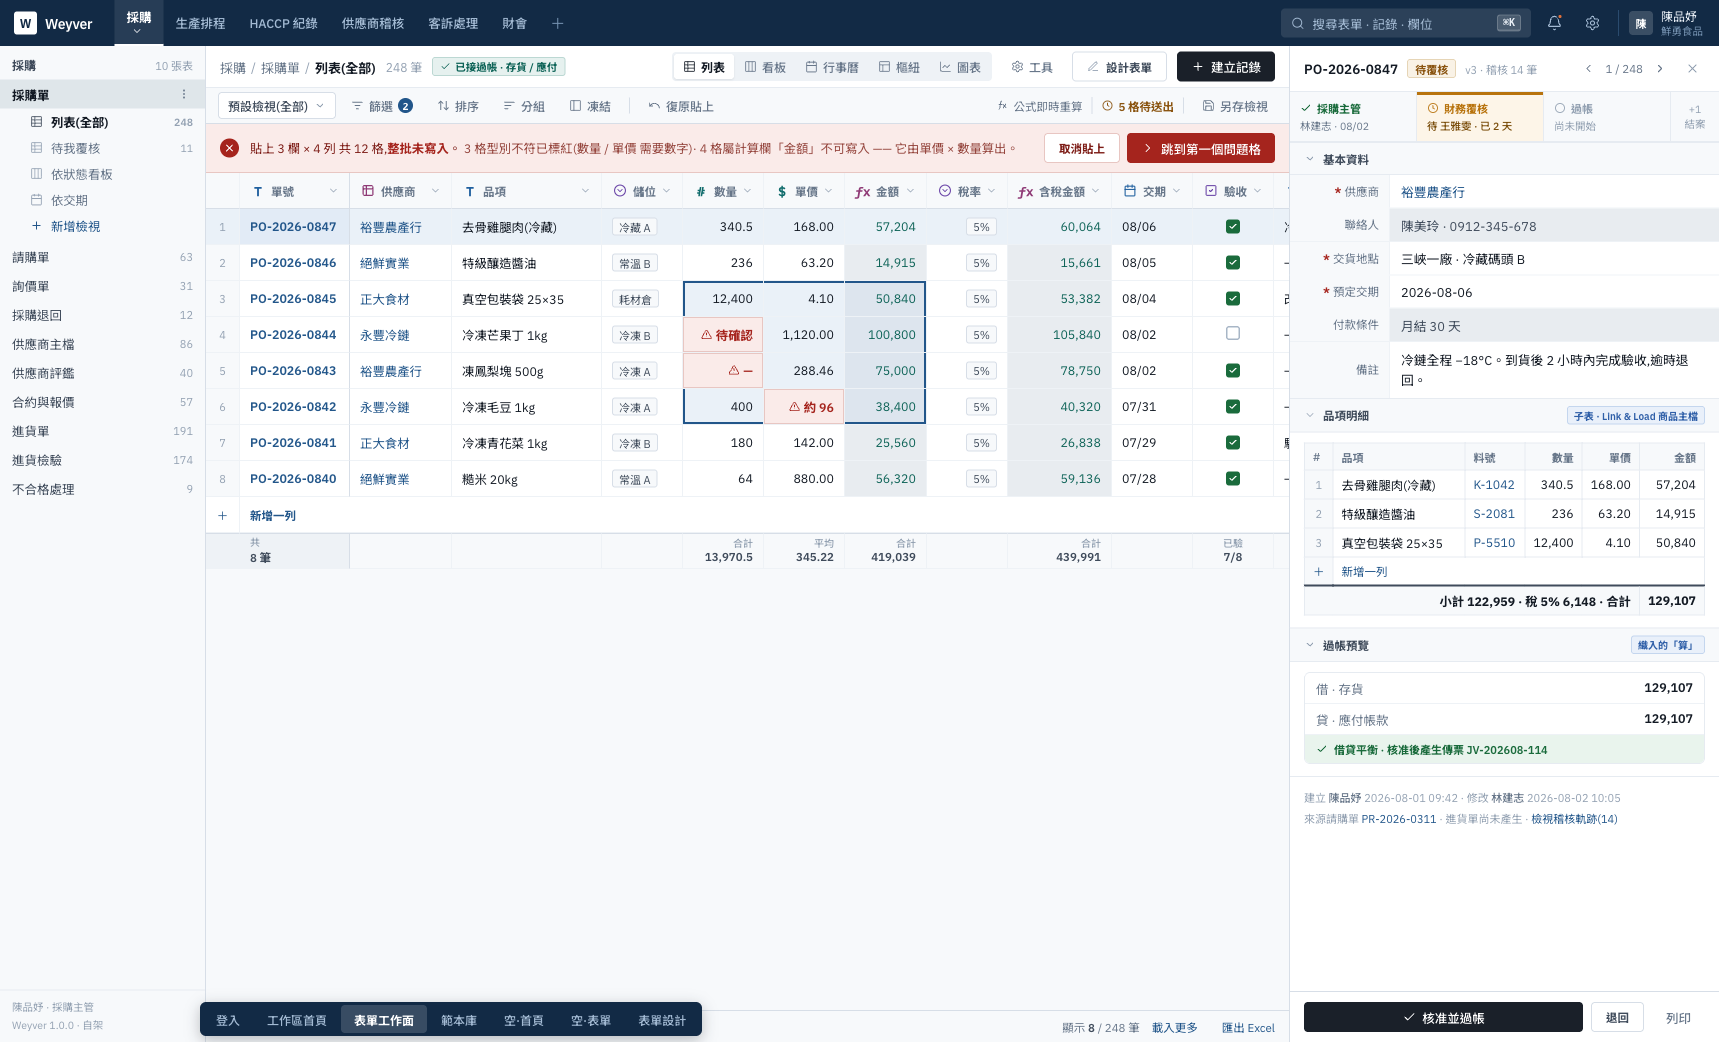
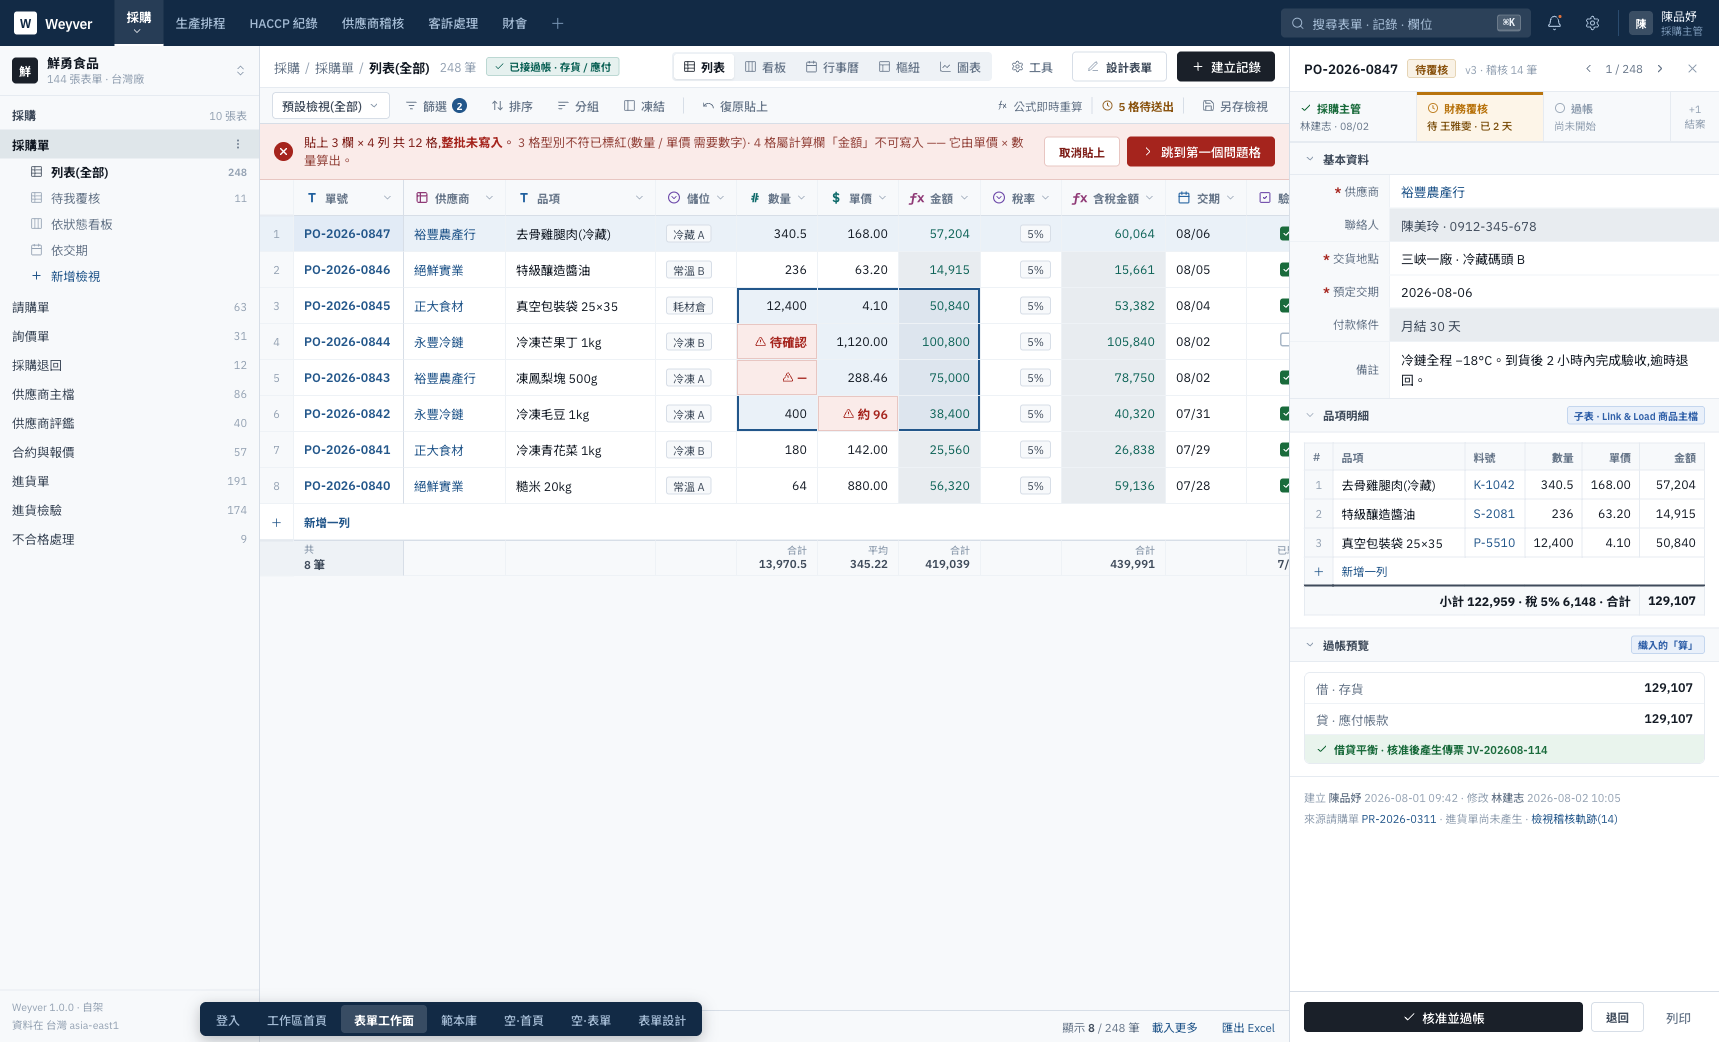
docs(design): 步驟 4|側欄 260px + 租戶切換器(G6 + G5);E 案裁定維持
**§3 衝突裁定:維持 E 案**(決策方 2026-08-08)。
型別分組色保留 —— 這是我方對 DESIGN-RULES.md 的**明確偏離**,記下以免日後被當成疏漏。

🔴 **但有件事與這個裁定獨立**:option-tone 在 **prod 已經在用**
(object-page.tsx + record-list.tsx)—— 資料層顏色在 prod 是活的,
**是 mockup 落後於 prod**,不是「我們選了不做」。
mockup 的 .opt 目前中性灰是 **mockup 的缺口**,不是設計裁定的結果。
補上後會是「型別層 + 資料層」兩層(參考是「資料層 + 導覽層」兩層)——
兩層不是三層,不等於案 3。待另行處理。

**G6** 側欄 206 → 260px。§2.3 明列 260;§1 的理由是把 Ragic 四層導覽
(吃掉 118px 垂直 + 306px 水平)壓成單一側欄承載群組/樹/檢視 —— 206px 撐不住三層縮排。

**G5** 租戶切換器釘在側欄最上。§3.6「多租戶從第一天就有」。
🔴 它同時修掉一個既有混淆:原本頂欄 whoami 把**使用者與租戶擠在一起**
(陳品妤 / 鮮勇食品)—— 兩個不同的東西,切換對象也不同。
→ 側欄頂 = 租戶(可切換)· 頂欄右 = 使用者 · 側欄底 = 版本戳記。

⚠ 量測時我的檢查給了**偽陰性**:三個 .ctx 量到 [260,0,0] 判「非單一寬度」,
但那兩個 0 是隱藏畫面的(父層 hidden)。改用「.ctx{width: 規則數 = 1」才是對的判準。
又一次「代理指標的輸出不是答案」—— 差點把偽陰性報成缺陷。

diff --git a/docs/mockups/weyver-v2.html b/docs/mockups/weyver-v2.html
@@ -378,8 +378,28 @@ a:hover{text-decoration:underline;}
    顏色留給資料面的型別(網格表頭的分組色)。
    兩個地方都上色會讓「顏色代表什麼」失去單一答案 ——
    而 §3.3 記的 NocoDB 缺點正是「側欄選取灰 vs 藍」這種同一畫面兩套語言。 */
-.ctx{width:206px;flex-shrink:0;border-right:1px solid var(--line);background:var(--paper-2);
+/* 🔴 G6(docs/39 步驟 4)|側欄 **260px 單一寬度,不因畫面改變**。
+   `DESIGN-RULES.md` §2.3 明列 260px,§1 的理由是把 Ragic 疊的四層導覽
+   (頁籤列 → 群組選擇器 → 檢視清單 → 篩選樹,吃掉 118px 垂直 + 306px 水平)
+   壓成**單一側欄承載群組 / 樹 / 檢視**。206px 撐不住三層縮排。 */
+.ctx{width:260px;flex-shrink:0;border-right:1px solid var(--line);background:var(--paper-2);
   display:flex;flex-direction:column;}
+
+/* 🔴 G5|租戶切換器釘在側欄最上。
+   `DESIGN-RULES.md` §3.6:「頂:租戶切換器(**多租戶從第一天就有,Ragic 做對了**)」。
+   ⚠ 這同時修掉一個既有的混淆:原本頂欄的 `whoami` 把**使用者**與**租戶**擠在一起
+   (陳品妤 / 鮮勇食品)—— 那是兩個不同的東西,切換的對象也不同。
+   改成:側欄頂 = 租戶(可切換)· 頂欄右 = 使用者帳號 · 側欄底 = 版本戳記。 */
+.ctx .tenant{display:flex;align-items:center;gap:9px;padding:9px 12px;border-bottom:1px solid var(--line-2);
+  cursor:pointer;}
+.ctx .tenant:hover{background:var(--paper-3);}
+.ctx .tenant .sq{width:26px;height:26px;border-radius:var(--r-ctl);background:var(--action);color:#fff;
+  display:flex;align-items:center;justify-content:center;font-size:12px;font-weight:700;flex-shrink:0;}
+.ctx .tenant .tx{min-width:0;line-height:1.3;}
+.ctx .tenant .tx b{display:block;font-size:13px;font-weight:600;color:var(--ink);
+  white-space:nowrap;overflow:hidden;text-overflow:ellipsis;}
+.ctx .tenant .tx em{display:block;font-style:normal;font-size:11px;color:var(--ink-4);}
+.ctx .tenant svg{width:13px;height:13px;color:var(--ink-4);margin-left:auto;flex-shrink:0;}
 .ctx .hd{display:flex;align-items:center;gap:6px;padding:10px 12px 6px;font-size:12px;
   font-weight:600;color:var(--ink-2);}
 .ctx .hd .n{margin-left:auto;font-size:11px;font-weight:400;color:var(--ink-4);}
@@ -1186,7 +1206,7 @@ a:hover{text-decoration:underline;}
       <button class="gsearch"><svg viewBox="0 0 24 24"><circle cx="11" cy="11" r="8"/><path d="m21 21-4.3-4.3"/></svg>搜尋表單 · 記錄 · 欄位<kbd>⌘K</kbd></button>
       <button class="tico"><svg viewBox="0 0 24 24"><path d="M10.3 21a2 2 0 0 0 3.4 0"/><path d="M3.3 15.3A1 1 0 0 0 4 17h16a1 1 0 0 0 .7-1.7C19.4 14 18 12.5 18 8A6 6 0 0 0 6 8c0 4.5-1.4 6-2.7 7.3"/></svg><span class="dot"></span></button>
       <button class="tico"><svg viewBox="0 0 24 24"><path d="M12.2 2h-.4a2 2 0 0 0-2 2v.2a2 2 0 0 1-1 1.7l-.4.2a2 2 0 0 1-2 0l-.1-.1a2 2 0 0 0-2.7.7l-.3.5a2 2 0 0 0 .7 2.8l.2.1a2 2 0 0 1 1 1.7v.4a2 2 0 0 1-1 1.7l-.2.1a2 2 0 0 0-.7 2.8l.3.5a2 2 0 0 0 2.7.7l.2-.1a2 2 0 0 1 2 0l.3.2a2 2 0 0 1 1 1.7v.2a2 2 0 0 0 2 2h.4a2 2 0 0 0 2-2v-.2a2 2 0 0 1 1-1.7l.4-.2a2 2 0 0 1 2 0l.1.1a2 2 0 0 0 2.7-.7l.3-.5a2 2 0 0 0-.7-2.8l-.2-.1a2 2 0 0 1-1-1.7v-.4a2 2 0 0 1 1-1.7l.2-.1a2 2 0 0 0 .7-2.8l-.3-.5a2 2 0 0 0-2.7-.7l-.2.1a2 2 0 0 1-2 0l-.3-.2a2 2 0 0 1-1-1.7V4a2 2 0 0 0-2-2Z"/><circle cx="12" cy="12" r="3"/></svg></button>
-      <div class="whoami"><div class="av">陳</div><div class="tx">陳品妤<em>鮮勇食品</em></div></div>
+      <div class="whoami"><div class="av">陳</div><div class="tx">陳品妤<em>採購主管</em></div></div>
     </div>
   </div>
   <div class="mainrow">
@@ -1321,11 +1341,17 @@ a:hover{text-decoration:underline;}
       <button class="gsearch"><svg viewBox="0 0 24 24"><circle cx="11" cy="11" r="8"/><path d="m21 21-4.3-4.3"/></svg>搜尋表單 · 記錄 · 欄位<kbd>⌘K</kbd></button>
       <button class="tico"><svg viewBox="0 0 24 24"><path d="M10.3 21a2 2 0 0 0 3.4 0"/><path d="M3.3 15.3A1 1 0 0 0 4 17h16a1 1 0 0 0 .7-1.7C19.4 14 18 12.5 18 8A6 6 0 0 0 6 8c0 4.5-1.4 6-2.7 7.3"/></svg><span class="dot"></span></button>
       <button class="tico"><svg viewBox="0 0 24 24"><path d="M12.2 2h-.4a2 2 0 0 0-2 2v.2a2 2 0 0 1-1 1.7l-.4.2a2 2 0 0 1-2 0l-.1-.1a2 2 0 0 0-2.7.7l-.3.5a2 2 0 0 0 .7 2.8l.2.1a2 2 0 0 1 1 1.7v.4a2 2 0 0 1-1 1.7l-.2.1a2 2 0 0 0-.7 2.8l.3.5a2 2 0 0 0 2.7.7l.2-.1a2 2 0 0 1 2 0l.3.2a2 2 0 0 1 1 1.7v.2a2 2 0 0 0 2 2h.4a2 2 0 0 0 2-2v-.2a2 2 0 0 1 1-1.7l.4-.2a2 2 0 0 1 2 0l.1.1a2 2 0 0 0 2.7-.7l.3-.5a2 2 0 0 0-.7-2.8l-.2-.1a2 2 0 0 1-1-1.7v-.4a2 2 0 0 1 1-1.7l.2-.1a2 2 0 0 0 .7-2.8l-.3-.5a2 2 0 0 0-2.7-.7l-.2.1a2 2 0 0 1-2 0l-.3-.2a2 2 0 0 1-1-1.7V4a2 2 0 0 0-2-2Z"/><circle cx="12" cy="12" r="3"/></svg></button>
-      <div class="whoami"><div class="av">陳</div><div class="tx">陳品妤<em>鮮勇食品</em></div></div>
+      <div class="whoami"><div class="av">陳</div><div class="tx">陳品妤<em>採購主管</em></div></div>
     </div>
   </div>
   <div class="mainrow">
       <div class="ctx">
+        <!-- G5:租戶切換器。多租戶從第一天就在場,不是設定頁裡的東西。 -->
+        <div class="tenant">
+          <div class="sq">鮮</div>
+          <div class="tx"><b>鮮勇食品</b><em>144 張表單 · 台灣廠</em></div>
+          <svg viewBox="0 0 24 24" fill="none" stroke="currentColor" stroke-width="2" stroke-linecap="round" stroke-linejoin="round"><path d="m7 15 5 5 5-5M7 9l5-5 5 5"/></svg>
+        </div>
         <div class="hd">採購<span class="n">10 張表</span></div>
         <div class="list">
           <div class="it on">採購單<span class="cv"><button title="更多"><svg viewBox="0 0 24 24" fill="none" stroke="currentColor" stroke-width="2" stroke-linecap="round" stroke-linejoin="round"><circle cx="12" cy="5" r="1"/><circle cx="12" cy="12" r="1"/><circle cx="12" cy="19" r="1"/></svg></button></span></div>
@@ -1349,7 +1375,7 @@ a:hover{text-decoration:underline;}
           <div class="it">進貨檢驗<span class="n">174</span></div>
           <div class="it">不合格處理<span class="n">9</span></div>
         </div>
-        <div class="foot">陳品妤 · 採購主管<br>Weyver 1.0.0 · 自架</div>
+        <div class="foot">Weyver 1.0.0 · 自架<br>資料在 台灣 asia-east1</div>
       </div>
     <div class="mid">
       <div class="fw">
@@ -1670,7 +1696,7 @@ a:hover{text-decoration:underline;}
       <button class="gsearch"><svg viewBox="0 0 24 24"><circle cx="11" cy="11" r="8"/><path d="m21 21-4.3-4.3"/></svg>搜尋表單 · 記錄 · 欄位<kbd>⌘K</kbd></button>
       <button class="tico"><svg viewBox="0 0 24 24"><path d="M10.3 21a2 2 0 0 0 3.4 0"/><path d="M3.3 15.3A1 1 0 0 0 4 17h16a1 1 0 0 0 .7-1.7C19.4 14 18 12.5 18 8A6 6 0 0 0 6 8c0 4.5-1.4 6-2.7 7.3"/></svg><span class="dot"></span></button>
       <button class="tico"><svg viewBox="0 0 24 24"><path d="M12.2 2h-.4a2 2 0 0 0-2 2v.2a2 2 0 0 1-1 1.7l-.4.2a2 2 0 0 1-2 0l-.1-.1a2 2 0 0 0-2.7.7l-.3.5a2 2 0 0 0 .7 2.8l.2.1a2 2 0 0 1 1 1.7v.4a2 2 0 0 1-1 1.7l-.2.1a2 2 0 0 0-.7 2.8l.3.5a2 2 0 0 0 2.7.7l.2-.1a2 2 0 0 1 2 0l.3.2a2 2 0 0 1 1 1.7v.2a2 2 0 0 0 2 2h.4a2 2 0 0 0 2-2v-.2a2 2 0 0 1 1-1.7l.4-.2a2 2 0 0 1 2 0l.1.1a2 2 0 0 0 2.7-.7l.3-.5a2 2 0 0 0-.7-2.8l-.2-.1a2 2 0 0 1-1-1.7v-.4a2 2 0 0 1 1-1.7l.2-.1a2 2 0 0 0 .7-2.8l-.3-.5a2 2 0 0 0-2.7-.7l-.2.1a2 2 0 0 1-2 0l-.3-.2a2 2 0 0 1-1-1.7V4a2 2 0 0 0-2-2Z"/><circle cx="12" cy="12" r="3"/></svg></button>
-      <div class="whoami"><div class="av">陳</div><div class="tx">陳品妤<em>鮮勇食品</em></div></div>
+      <div class="whoami"><div class="av">陳</div><div class="tx">陳品妤<em>採購主管</em></div></div>
     </div>
   </div>
   <div class="mainrow">
@@ -1678,6 +1704,12 @@ a:hover{text-decoration:underline;}
     <!-- ② 分類軸 —— 現況完全沒有(Ragic 側欄至少 24 個分類)。
          我方的分類直接來自 pack 的 categoryName / industry,不另立一套詞彙。 -->
     <div class="ctx">
+      <!-- G5:租戶切換器。多租戶從第一天就在場,不是設定頁裡的東西。 -->
+      <div class="tenant">
+        <div class="sq">鮮</div>
+        <div class="tx"><b>鮮勇食品</b><em>144 張表單 · 台灣廠</em></div>
+        <svg viewBox="0 0 24 24" fill="none" stroke="currentColor" stroke-width="2" stroke-linecap="round" stroke-linejoin="round"><path d="m7 15 5 5 5-5M7 9l5-5 5 5"/></svg>
+      </div>
       <div class="hd">範本分類<span class="n">8 個</span></div>
       <div class="list">
         <div class="it on">全部<span class="n">8</span></div>
@@ -1851,7 +1883,7 @@ a:hover{text-decoration:underline;}
     <div class="rt">
       <button class="gsearch"><svg viewBox="0 0 24 24"><circle cx="11" cy="11" r="8"/><path d="m21 21-4.3-4.3"/></svg>搜尋表單 · 記錄 · 欄位<kbd>⌘K</kbd></button>
       <button class="tico"><svg viewBox="0 0 24 24"><path d="M10.3 21a2 2 0 0 0 3.4 0"/><path d="M3.3 15.3A1 1 0 0 0 4 17h16a1 1 0 0 0 .7-1.7C19.4 14 18 12.5 18 8A6 6 0 0 0 6 8c0 4.5-1.4 6-2.7 7.3"/></svg></button>
-      <div class="whoami"><div class="av">陳</div><div class="tx">陳品妤<em>鮮勇食品</em></div></div>
+      <div class="whoami"><div class="av">陳</div><div class="tx">陳品妤<em>採購主管</em></div></div>
     </div>
   </div>
   <div class="mainrow">
@@ -1926,17 +1958,23 @@ a:hover{text-decoration:underline;}
       <button class="gsearch"><svg viewBox="0 0 24 24"><circle cx="11" cy="11" r="8"/><path d="m21 21-4.3-4.3"/></svg>搜尋表單 · 記錄 · 欄位<kbd>⌘K</kbd></button>
       <button class="tico"><svg viewBox="0 0 24 24"><path d="M10.3 21a2 2 0 0 0 3.4 0"/><path d="M3.3 15.3A1 1 0 0 0 4 17h16a1 1 0 0 0 .7-1.7C19.4 14 18 12.5 18 8A6 6 0 0 0 6 8c0 4.5-1.4 6-2.7 7.3"/></svg><span class="dot"></span></button>
       <button class="tico"><svg viewBox="0 0 24 24"><path d="M12.2 2h-.4a2 2 0 0 0-2 2v.2a2 2 0 0 1-1 1.7l-.4.2a2 2 0 0 1-2 0l-.1-.1a2 2 0 0 0-2.7.7l-.3.5a2 2 0 0 0 .7 2.8l.2.1a2 2 0 0 1 1 1.7v.4a2 2 0 0 1-1 1.7l-.2.1a2 2 0 0 0-.7 2.8l.3.5a2 2 0 0 0 2.7.7l.2-.1a2 2 0 0 1 2 0l.3.2a2 2 0 0 1 1 1.7v.2a2 2 0 0 0 2 2h.4a2 2 0 0 0 2-2v-.2a2 2 0 0 1 1-1.7l.4-.2a2 2 0 0 1 2 0l.1.1a2 2 0 0 0 2.7-.7l.3-.5a2 2 0 0 0-.7-2.8l-.2-.1a2 2 0 0 1-1-1.7v-.4a2 2 0 0 1 1-1.7l.2-.1a2 2 0 0 0 .7-2.8l-.3-.5a2 2 0 0 0-2.7-.7l-.2.1a2 2 0 0 1-2 0l-.3-.2a2 2 0 0 1-1-1.7V4a2 2 0 0 0-2-2Z"/><circle cx="12" cy="12" r="3"/></svg></button>
-      <div class="whoami"><div class="av">陳</div><div class="tx">陳品妤<em>鮮勇食品</em></div></div>
+      <div class="whoami"><div class="av">陳</div><div class="tx">陳品妤<em>採購主管</em></div></div>
     </div>
   </div>
   <div class="mainrow">
     <div class="ctx">
+      <!-- G5:租戶切換器。多租戶從第一天就在場,不是設定頁裡的東西。 -->
+      <div class="tenant">
+        <div class="sq">鮮</div>
+        <div class="tx"><b>鮮勇食品</b><em>144 張表單 · 台灣廠</em></div>
+        <svg viewBox="0 0 24 24" fill="none" stroke="currentColor" stroke-width="2" stroke-linecap="round" stroke-linejoin="round"><path d="m7 15 5 5 5-5M7 9l5-5 5 5"/></svg>
+      </div>
       <div class="hd">採購<span class="n">1 張表</span></div>
       <div class="list">
         <!-- 0 筆時**不展開檢視** —— 還沒有資料可以分,展開一堆空檢視是噪音 -->
         <div class="it on">採購單<span class="n">0</span></div>
       </div>
-      <div class="foot">陳品妤 · 採購主管<br>Weyver 1.0.0 · 自架</div>
+      <div class="foot">Weyver 1.0.0 · 自架<br>資料在 台灣 asia-east1</div>
     </div>
     <div class="mid">
       <div class="fw">
@@ -2002,7 +2040,7 @@ a:hover{text-decoration:underline;}
       <button class="gsearch"><svg viewBox="0 0 24 24"><circle cx="11" cy="11" r="8"/><path d="m21 21-4.3-4.3"/></svg>搜尋表單 · 記錄 · 欄位<kbd>⌘K</kbd></button>
       <button class="tico"><svg viewBox="0 0 24 24"><path d="M10.3 21a2 2 0 0 0 3.4 0"/><path d="M3.3 15.3A1 1 0 0 0 4 17h16a1 1 0 0 0 .7-1.7C19.4 14 18 12.5 18 8A6 6 0 0 0 6 8c0 4.5-1.4 6-2.7 7.3"/></svg><span class="dot"></span></button>
       <button class="tico"><svg viewBox="0 0 24 24"><path d="M12.2 2h-.4a2 2 0 0 0-2 2v.2a2 2 0 0 1-1 1.7l-.4.2a2 2 0 0 1-2 0l-.1-.1a2 2 0 0 0-2.7.7l-.3.5a2 2 0 0 0 .7 2.8l.2.1a2 2 0 0 1 1 1.7v.4a2 2 0 0 1-1 1.7l-.2.1a2 2 0 0 0-.7 2.8l.3.5a2 2 0 0 0 2.7.7l.2-.1a2 2 0 0 1 2 0l.3.2a2 2 0 0 1 1 1.7v.2a2 2 0 0 0 2 2h.4a2 2 0 0 0 2-2v-.2a2 2 0 0 1 1-1.7l.4-.2a2 2 0 0 1 2 0l.1.1a2 2 0 0 0 2.7-.7l.3-.5a2 2 0 0 0-.7-2.8l-.2-.1a2 2 0 0 1-1-1.7v-.4a2 2 0 0 1 1-1.7l.2-.1a2 2 0 0 0 .7-2.8l-.3-.5a2 2 0 0 0-2.7-.7l-.2.1a2 2 0 0 1-2 0l-.3-.2a2 2 0 0 1-1-1.7V4a2 2 0 0 0-2-2Z"/><circle cx="12" cy="12" r="3"/></svg></button>
-      <div class="whoami"><div class="av">陳</div><div class="tx">陳品妤<em>鮮勇食品</em></div></div>
+      <div class="whoami"><div class="av">陳</div><div class="tx">陳品妤<em>採購主管</em></div></div>
     </div>
   </div>
   <div class="mainrow" style="position:relative">

diff --git a/docs/39-視覺落差與對齊計畫.md b/docs/39-視覺落差與對齊計畫.md
@@ -79,8 +79,8 @@
 | ~~**G2**~~ | ~~麵包屑~~ | ~~無~~ | ✅ **已完成 2026-08-08** —— 且**取代**大標題 | 3 | 低 |
 | ~~**G3**~~ | ~~記錄分頁器~~ | ~~無~~ | ✅ **已完成 2026-08-08** —— 放記錄面板標題列 | 2 | 低 |
 | ~~**G4**~~ | ~~每列一欄粗體~~ | ~~計算欄也是 600~~ | ✅ **已完成 2026-08-08** | 3 | 低 |
-| **G5** | 租戶切換器 | 只顯示租戶名 | 可切換(多租戶第一天就有) | 全部 | 中 |
-| **G6** | 側欄寬 | 206px | **260px 單一寬度,不因畫面改變** | 5 | 低 |
+| ~~**G5**~~ | ~~租戶切換器~~ | ~~與使用者擠在一起~~ | ✅ **已完成 2026-08-08** | 全部 | 中 |
+| ~~**G6**~~ | ~~側欄寬~~ | ~~206px~~ | ✅ **已完成 2026-08-08** —— 260px | 5 | 低 |
 | ~~**G7**~~ | ~~列高~~ | ~~31px~~ | ✅ **已完成 2026-08-08** —— 36px / 內距 10px | 3 | 低 |
 | **G8** | 字體 | IBM Plex | Inter + Noto Sans TC(規則)/ Archivo(決策方登入頁)**三方不一致,待統一** | 全部 | 中 |
 | **G9** | 空狀態 | 已做(三條路) | 對齊「整寬淺色帶 + 兩個行內動作」的形態 | 2 | 低 |
@@ -133,7 +133,17 @@
 ⚠ **仍待確認**:選項色**流到看板色條與群組標頭**那一段,
 `option-colors §122` 當時記「尚無看板視圖與圖表模組」,而看板後來出貨了 —— **未複查是否已接上**。
 
-⚠ **待決策方裁定。** 在裁定前不動 E,也不擴大它。
+### 3.3 ✅ 裁定(2026-08-08):**維持 E 案**
+
+決策方裁定「維持現狀」。型別分組色保留,**這是我方對 `DESIGN-RULES.md` 的一次明確偏離**,
+記在此以免日後被當成疏漏。
+
+🔴 **但有一件事與這個裁定獨立,不要混為一談**:
+`option-tone` **prod 已經在用**(`object-page.tsx` + `record-list.tsx`)——
+**資料層顏色在 prod 是活的,是 mockup 落後於 prod**,不是「我們選了不做」。
+→ mockup 的 `.opt` 目前是中性灰,那是**mockup 的缺口**,不是設計裁定的結果。
+   補上之後會變成「型別層 + 資料層」兩層有色(參考是「資料層 + 導覽層」兩層)——
+   **兩層不是三層,不等於案 3**。待另行處理。
 
 ---
 
@@ -146,7 +156,7 @@
 | ~~**1**~~ | ✅ **G1 主按鈕改近黑(2026-08-08 完成)** | 見 §4.1 |
 | ~~**2**~~ | ✅ **G4 + G7(2026-08-08 完成)** | 見 §4.2 |
 | ~~**3**~~ | ✅ **G2 + G3(2026-08-08 完成)** | 見 §4.3 |
-| **4** | **G6 側欄 260px** + **G5 租戶切換器** | 側欄同時改寬與加頭 |
+| ~~**4**~~ | ✅ **G6 + G5(2026-08-08 完成)** | 見 §4.4 |
 | **5** | **G11 內容寬度上限** + **G9 空狀態形態** | 收尾的版面約束 |
 | **6** | **G8 字體統一** | 🔴 **最後做,而且要先裁定** —— 三方不一致(IBM Plex / Inter / Archivo),換字體會動到每個畫面的行高與對齊,在其他事都定案前換等於重做兩次 |
 | — | **G10 智慧按鈕** | 需要關聯計數 API,**排在 mockup 之後**,不在這一輪 |
@@ -206,6 +216,22 @@
 ⚠ **我方放在記錄面板的標題列而非全域頂列** —— 記錄在我們這裡是右側面板,
 分頁器屬於「這個面板正在看第幾筆」;放全域頂列會和「這張表有幾筆」混淆。
 這是對規則位置的**刻意偏離**,理由記在此。
+
+### 4.4 步驟 4 落地紀錄(2026-08-08)
+
+**G6 側欄 206 → 260px。** §2.3 明列 260px;§1 的理由是把 Ragic 疊的四層導覽
+(吃掉 118px 垂直 + 306px 水平)壓成**單一側欄承載群組 / 樹 / 檢視** ——
+206px 撐不住三層縮排。
+
+**G5 租戶切換器釘在側欄最上。** §3.6:「頂:租戶切換器(多租戶從第一天就有,Ragic 做對了)」。
+🔴 **它同時修掉一個既有的混淆**:原本頂欄的 `whoami` 把**使用者與租戶擠在一起**
+(陳品妤 / 鮮勇食品)—— 那是兩個不同的東西,切換的對象也不同。
+→ 側欄頂 = **租戶**(可切換)· 頂欄右 = **使用者**帳號 · 側欄底 = 版本戳記(去掉重複的使用者名)。
+
+⚠ **量測時我的檢查給了偽陰性**:三個 `.ctx` 量到 `[260, 0, 0]`,
+`單一寬度:false` —— 但那兩個 0 是**隱藏畫面**的 `.ctx`(父層 `hidden`)。
+改用「`.ctx{width:` 規則數 = 1」確認才是對的判準。
+又一次「代理指標的輸出不是答案」—— 差點把偽陰性報成缺陷。
 
 **每一步的驗收**|Playwright 實走 + 截圖存 `docs/research/ui-extract-2026-08-06/`,
 並跑 `docs/mockups/_check-collisions.py`。
